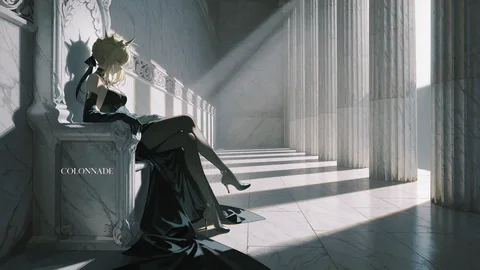
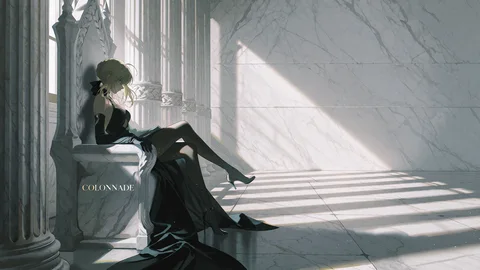
v1.17.1: 柱厅侧影改 45 度侧前机位 + 去王冠 + 撤掉右侧柱子（右半留空墙与长影）

diff --git a/__init__.py b/__init__.py
@@ -18,7 +18,7 @@ Krea2「白垩光 / 未来奢华编辑主视觉」长文提示词的自动装配
 """
 from __future__ import annotations
 
-__version__ = "1.17.0"
+__version__ = "1.17.1"
 
 from .k2ed_node import K2EditorialBuilder, register_routes
 

diff --git a/README.md b/README.md
@@ -177,6 +177,18 @@ git clone https://github.com/lingdongbudong/Comfyui-K2-Editorial.git
 
 ## 更新日志
 
+### v1.17.1
+
+- **`k2x_clsc_seat_side`（柱厅侧影 / COLONNADE）按反馈重做三处**：
+  - 机位从「近正侧 25°」改成 **45° 侧前**，既能读到交叉腿的轮廓，又给脸留出朝向镜头的角度；
+  - **去掉王冠**：首句、材质段、阶梯序列、色盘、磨损、收束段里的金冠全部删除，
+    负面清单加 `no crown / no tiara / no diadem / no headpiece`，头顶只留她自己的发饰；
+  - **右侧柱子撤掉**：柱列只保留在她左后方并跑出画面左边缘，右半画面改成**一整片空白大理石墙 + 地面**，
+    只承载四道长斜影。负面清单加 `no column on the right side of the frame / no second row of columns / no pillar at the right edge`。
+- 色盘按新构图重算（右侧空墙 30% / 阴影大理石 20% / 黑缎 18% / 皮肤与腿 12% / 头发 8% / 王座 6% / 长影 5% / 鞋面高光 1%），合计 100。
+- 实测出图：45° 视角、无王冠、右侧无柱三项全部达成；交叉腿（踝搭膝 + 一条鞋悬空 + 一条鞋踏地）成立。
+- 回归测试 23/23 全绿。
+
 ### v1.17.0
 
 - **母题库扩到 558 条**（3D 场景 317 / 平面海报 15 / 短提示词 226）。同一坐姿骨架的五条母题，背景全部换成**非王室场景**：
